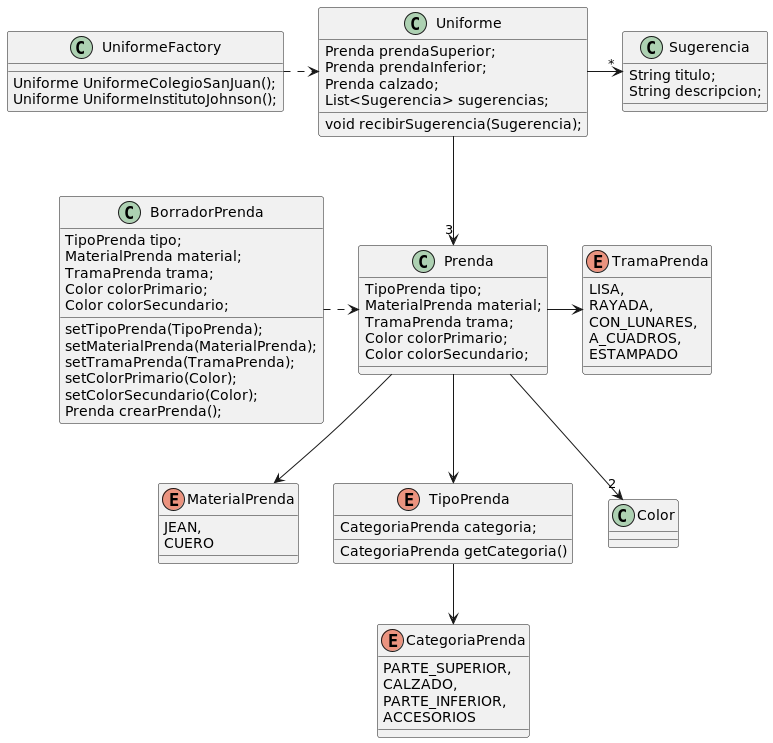
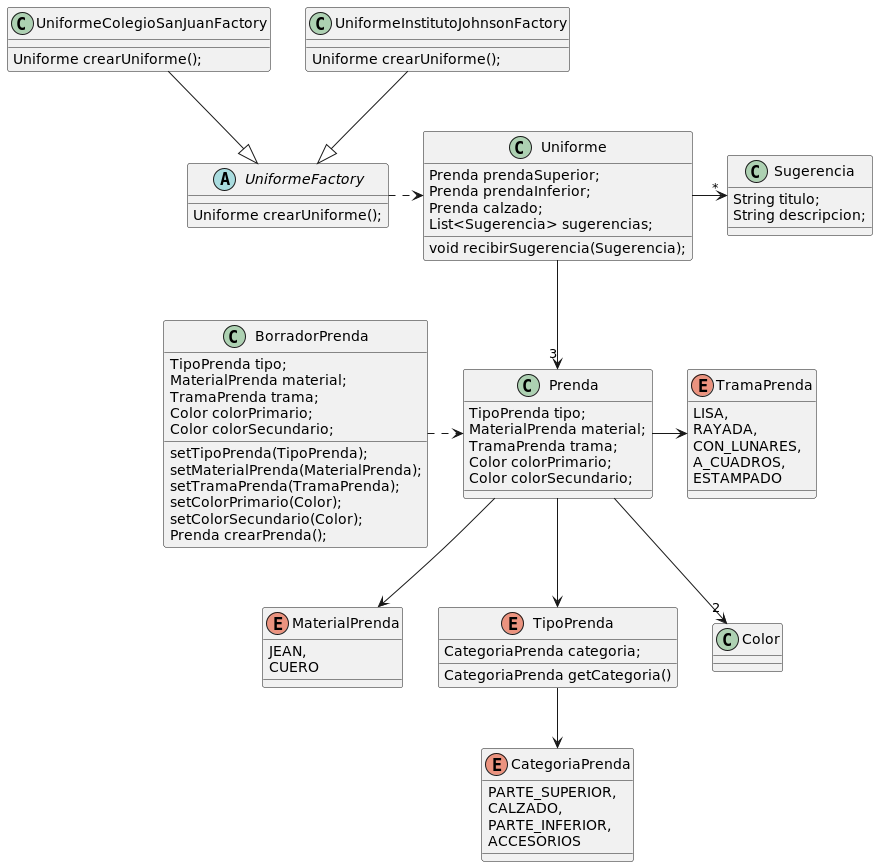
refactor UniformeFactory, update Readme

diff --git a/README.md b/README.md
@@ -5,11 +5,16 @@ https://docs.google.com/document/d/10j6XB9zIhl5xox2xBEDEFsgPmueHMkyvLSHcLxl_27Y/
 ## Diagrama de Clases
 ![Diagrama de Clases](./classDiagram/diagramIteracionII.png)
 ## Consideraciones
-La prenda conoce su trama, es responsabilidad de quien crea la prenda que esta este relacionada correctamente.
+Las prendas siguen siendo **inmutables**, para poder tener un borrador de la prenda que se va creado de a poco, se utiliza
+`BorradorPrenda` que es un **_Builder_** con los mismos parámetros de la clase Prenda, esta por el requiriemento de ir
+creando de a poco no es inmutable, una vez que se configurar podemos crear la prenda completa, como no se va a crear una
+prenda sin el `BorradorPrenda`, podemos sacar las validaciones de los parámetros validos de `Prenda` y dejarlas en el
+_**Builder**_.
 
-Los uniformes tienen una referencia a Prenda por cada prenda que deben tener, 
+La `Prenda` conoce su `Trama`, es responsabilidad de quien crea la prenda(`BorrdorPrenda`) que esta este relacionada correctamente.
 
-Los uniformes se crean con un FactoryMethod para cada tipo de uniforme que se necesite en la Clase UniformeFactory
+Un `Uniforme` se crea con un _**FactoryMethod**_, para cada tipo de uniforme que se necesite se creará un clase que extienda
+a `UniformeFactory` y se encargue de configurar los parámetros correctos para las prendas del `Uniforme`.
 
 #DDS - Que me pongo iteración I
 >**Requerimientos**:
